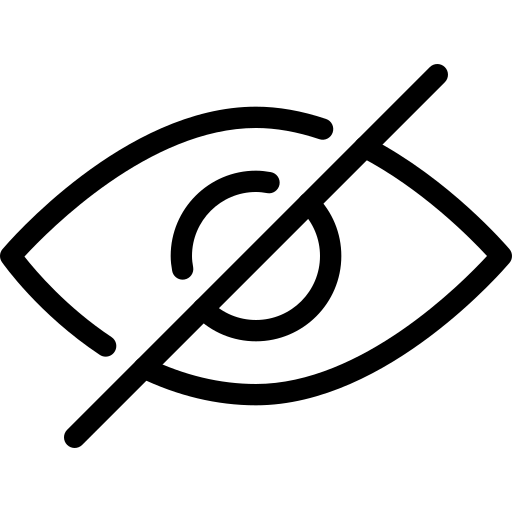
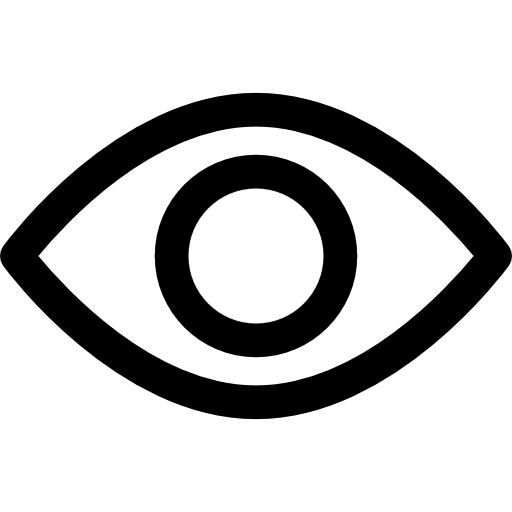
profile card complete

diff --git a/src/components/user/UserForm.jsx b/src/components/user/UserForm.jsx
@@ -3,8 +3,8 @@ import { useState } from "react";
 import axios from "axios";
 import "./userForm.scss"
 import UpdateAccountModal from "../modal/UpdateAccountModal";
-import visible from "./user-images/visible.png";
-import notVisible from "./user-images/not-visible.png";
+import notVisible from "./user-images/visible.png";
+import visible from "./user-images/not-visible.png";
 
 export default function UserForm(props) {
     const [firstName, setFirstName] = useState('');
@@ -50,7 +50,6 @@ export default function UserForm(props) {
     }
 
     const handleClickShowPassword = (e) => {
-        e.preventDefault();
         setShowPassword(!showPassword);
     }
 
@@ -96,11 +95,11 @@ export default function UserForm(props) {
                     Password:
                     <input className="update-form-input" placeholder={currentUser.password} value={password} onChange={handlePassword} type={showPassword ? "text" : "password"} name="name" />
                     <div className="visibility-image-container">
-                        <img className="visibility-image" src={notVisible} alt="visible-icon"/>
+                        <img onClick={()=> handleClickShowPassword()} className="visibility-image" src={showPassword ? visible: notVisible} alt="visible-icon"/>
                     </div>
                 </label>
                 <label>
-                    Phone Number:
+                    Phone number:
                     <input className="update-form-input" placeholder={currentUser.phone_number} value={phoneNum} onChange={handlePhoneNum} type="text" name="name" />
                 </label>
                 <label>
@@ -108,7 +107,7 @@ export default function UserForm(props) {
                     <input className="update-form-input" placeholder={currentUser.dob} value={dob} onChange={handleDob} type="text" name="name" />
                 </label>
             </form>
-            <button className="update-form-button" onClick={() => {updateUserInformation(); setRenderModal(!renderModal)}}>Submit</button>
+            <button className="update-form-button" onClick={() => {updateUserInformation(); setRenderModal(!renderModal)}}>Update</button>
             <button className="update-form-button" onClick={() => editForm(false)}>Cancel</button>
             {renderModal ? <UpdateAccountModal close={setRenderModal}/> : ""}
         </div>

diff --git a/src/components/user/userCard.scss b/src/components/user/userCard.scss
@@ -1,21 +1,28 @@
 .c-container {
   display: flex;
-  width: 500px;
-  height: 210px;
+  max-width: 507px;
+  height: 225x;
   overflow: hidden;
   box-shadow: 0px 15px 15px -5px;
   background-color: rgb(255, 255, 255);
   border: 4px solid #f38c59;
   border-radius: 15px;
-  padding: 5px;
+  padding: 10px;
   margin: auto;
+ 
+  
+  .img-container {
+    align-self: center;
+  }
 
   .img-container img {
     padding: 15px;
     overflow: hidden;
     height: 150px;
-  }
+    border-radius: 15%;
 
+  }
+  
   .c-name {
     flex-grow: 1;
     padding: 15px;
@@ -76,10 +83,15 @@
       color:rgb(0, 0, 0);
       &:before,
       &:after {
-        width: 95%;
-        height: 90%;
+        width: 94%;
+        height: 94%;
         // border-color:white;
       }
     }
   }
+}
+
+.card-name {
+  font-size: 15px;
+  font-weight: bold;
 }

diff --git a/src/components/user/UserCard.jsx b/src/components/user/UserCard.jsx
@@ -4,6 +4,7 @@ import "./userCard.scss";
 import icon from "./user-images/icon.png";
 import UserForm from "./UserForm";
 import { filterProps } from "framer-motion";
+import anonpig from "./user-images/anonymous-pig.png";
 
 export default function UserCard(props) {
   const currentUser = props.currUser;
@@ -13,7 +14,8 @@ export default function UserCard(props) {
   return (
     <div className="c-container">
       <div className="img-container">
-        <img src={icon} alt="person-icon" />
+        <img className ="usercard-img" src={anonpig} alt="person-icon" />
+        {editForm ? <div className="card-name">{currentUser.first_name} {currentUser.last_name}</div> : ""}
       </div>
       {editForm ? (
         <UserForm currentUser={currentUser} formState = {setEditForm} />

diff --git a/src/components/user/userForm.scss b/src/components/user/userForm.scss
@@ -1,11 +1,13 @@
 .form-container {
-  margin-top: 5px;
-
+  border-radius: 5px;
+  background-color: #f2f2f2;
   .update-info-form {
     display: flex;
     flex-direction: column;
     text-align: left;
-
+    margin: 0px 3px;
+    padding: 3px;
+    
     .update-form-input {
       margin-left: 5.5px;
       margin-top: 3px;
